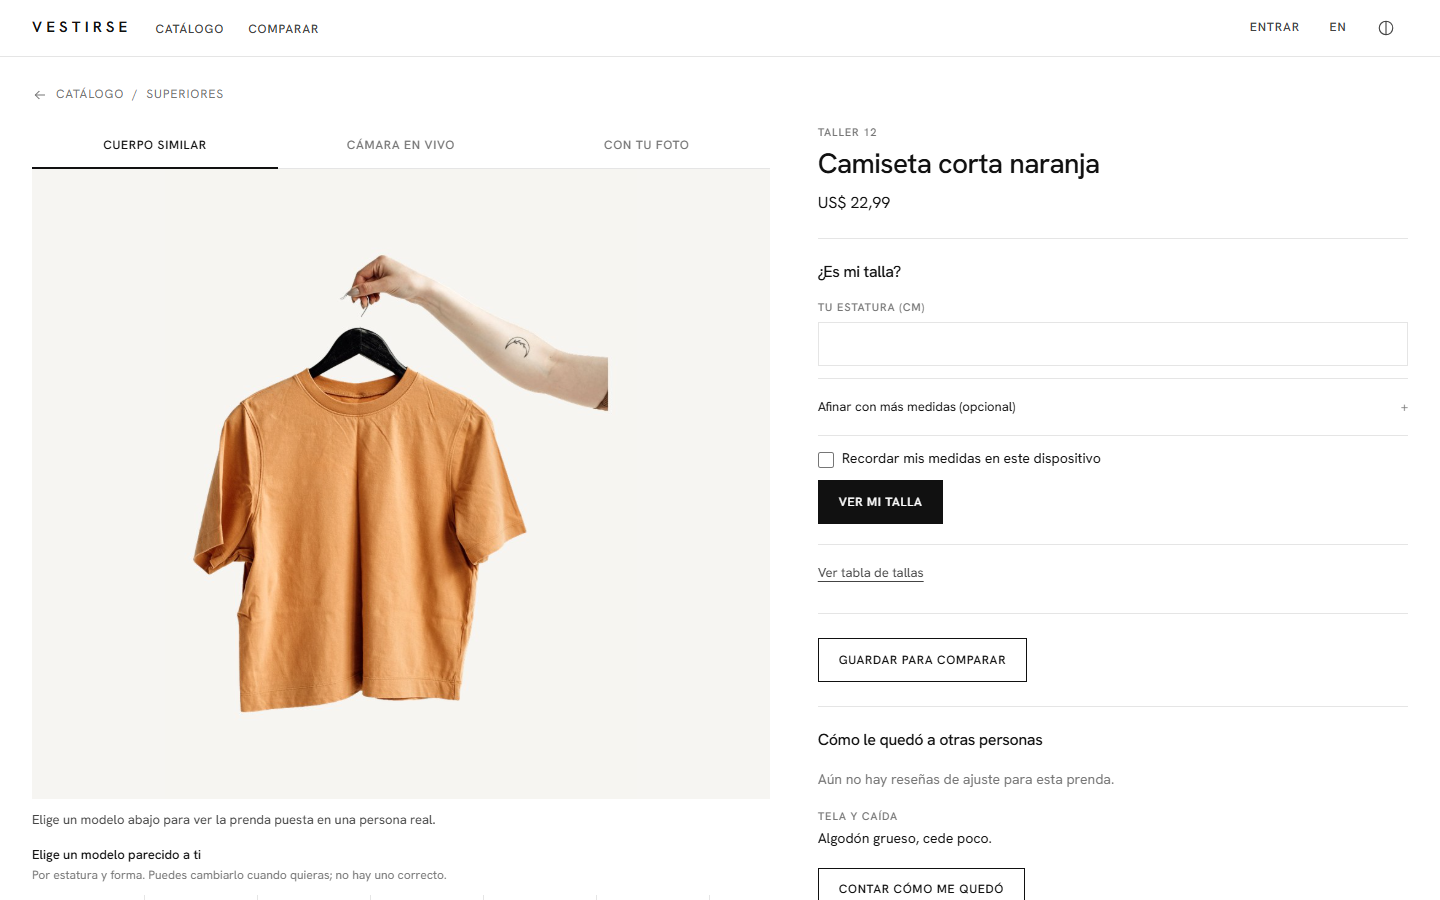
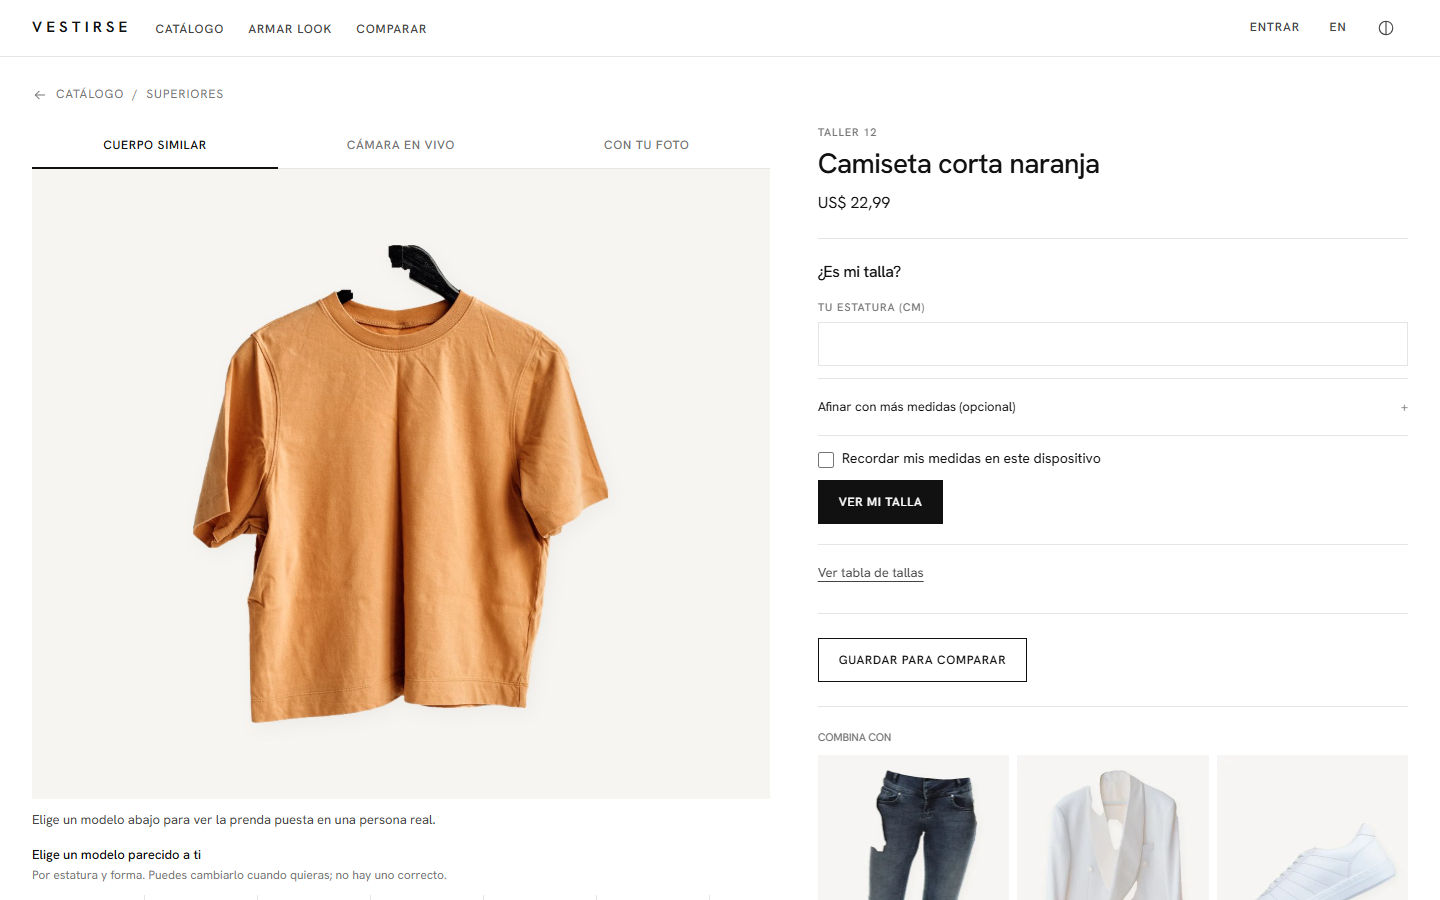
docs(capturas): tienda con filtros, ficha, look y cámara en vivo
- recorrido.mjs gana los pasos tienda, ficha y look, y acepta "-" cuando
  el paso no sube foto.
- e2e-camera numera sus capturas como 12-camara-*.
- Capturas 01-03 y 08 rehechas con el diseño actual.

diff --git a/docs/capturas/README.md b/docs/capturas/README.md
@@ -1,7 +1,9 @@
 # Capturas de la app con el motor real
 
-Tomadas el 2026-10-10 sobre la app local (`npm run dev:web`), con el motor `hf-chain`
-(FASHN VTON 1.5 en Hugging Face, sin token) y Groq revisando la foto. Ninguna imagen está retocada.
+Tomadas sobre la app local (`npm run dev:web`). Las pruebas con IA (04 y 07) son del 2026-10-10, con el
+motor `hf-chain` (FASHN VTON 1.5 en Hugging Face, sin token) y Groq revisando la foto. Las de tienda,
+ficha, look y cámara (01–03 y 08–12) son del 2026-10-21, con el motor de malla del navegador. Ninguna
+imagen está retocada.
 
 Las capturas `04-camiseta-*` usan la foto de prueba de `docs/imagenes/` (iStock, sin licencia libre):
 están en esta carpeta en local pero no se suben al repositorio. Para versionarlas, repite el recorrido
@@ -19,6 +21,12 @@ con una foto propia o de banco libre.
 | `07-modelo-a-elegido.png` | "Cuerpo similar": modelos reales y botón para ver la prenda sobre uno |
 | `07-modelo-b-generando.png`, `07-modelo-c-sin-cupo.png` | Lo que ve la persona cuando el motor gratuito ya no tiene cupo ese día |
 | `08-creditos.png` | Página de créditos de las fotos |
+| `09-tienda-filtros.png` | Tienda con filtros en la URL (`?cat=top&color=blue&orden=price-asc`) |
+| `09-tienda-vista-en-modelo.png` | Al pasar el ratón, la prenda aparece puesta en un modelo, sin IA |
+| `10-ficha-vista-aproximada.png` | Ficha: vista aproximada al instante, "Combina con" y galería con tres tallas puestas |
+| `10-ficha-zoom.png` | Zoom de la foto de producto, que sigue al puntero |
+| `11-look.png` | Armar look: camisa, jean y blazer sobre un modelo, con sugerencias por hueco |
+| `12-camara-*.png` | Cámara en vivo con una cámara falsa (foto de modelo con vaivén): cárdigan, camisa y vestido |
 
 ## Lo que falta capturar
 
@@ -38,4 +46,16 @@ node docs/capturas/recorrido.mjs docs/capturas <foto-de-cuerpo-entero.jpg>      
 node docs/capturas/recorrido.mjs docs/capturas <foto.jpg> jean vestido modelo         # solo esos pasos
 ```
 
-Pasos disponibles: `catalogo`, `camiseta`, `jean`, `vestido`, `modelo`, `creditos`.
+Pasos disponibles: `catalogo`, `camiseta`, `jean`, `vestido`, `modelo`, `creditos`, `tienda`, `ficha` y `look`.
+Los pasos que no suben foto aceptan `-` en lugar de la foto:
+
+```bash
+node docs/capturas/recorrido.mjs docs/capturas - tienda ficha look
+```
+
+Las capturas `12-camara-*` salen de la prueba e2e de la cámara, que además falla si la prenda no cubre
+el torso o si los fps bajan del mínimo:
+
+```bash
+node apps/web/scripts/e2e-camera.mjs --out docs/capturas
+```
